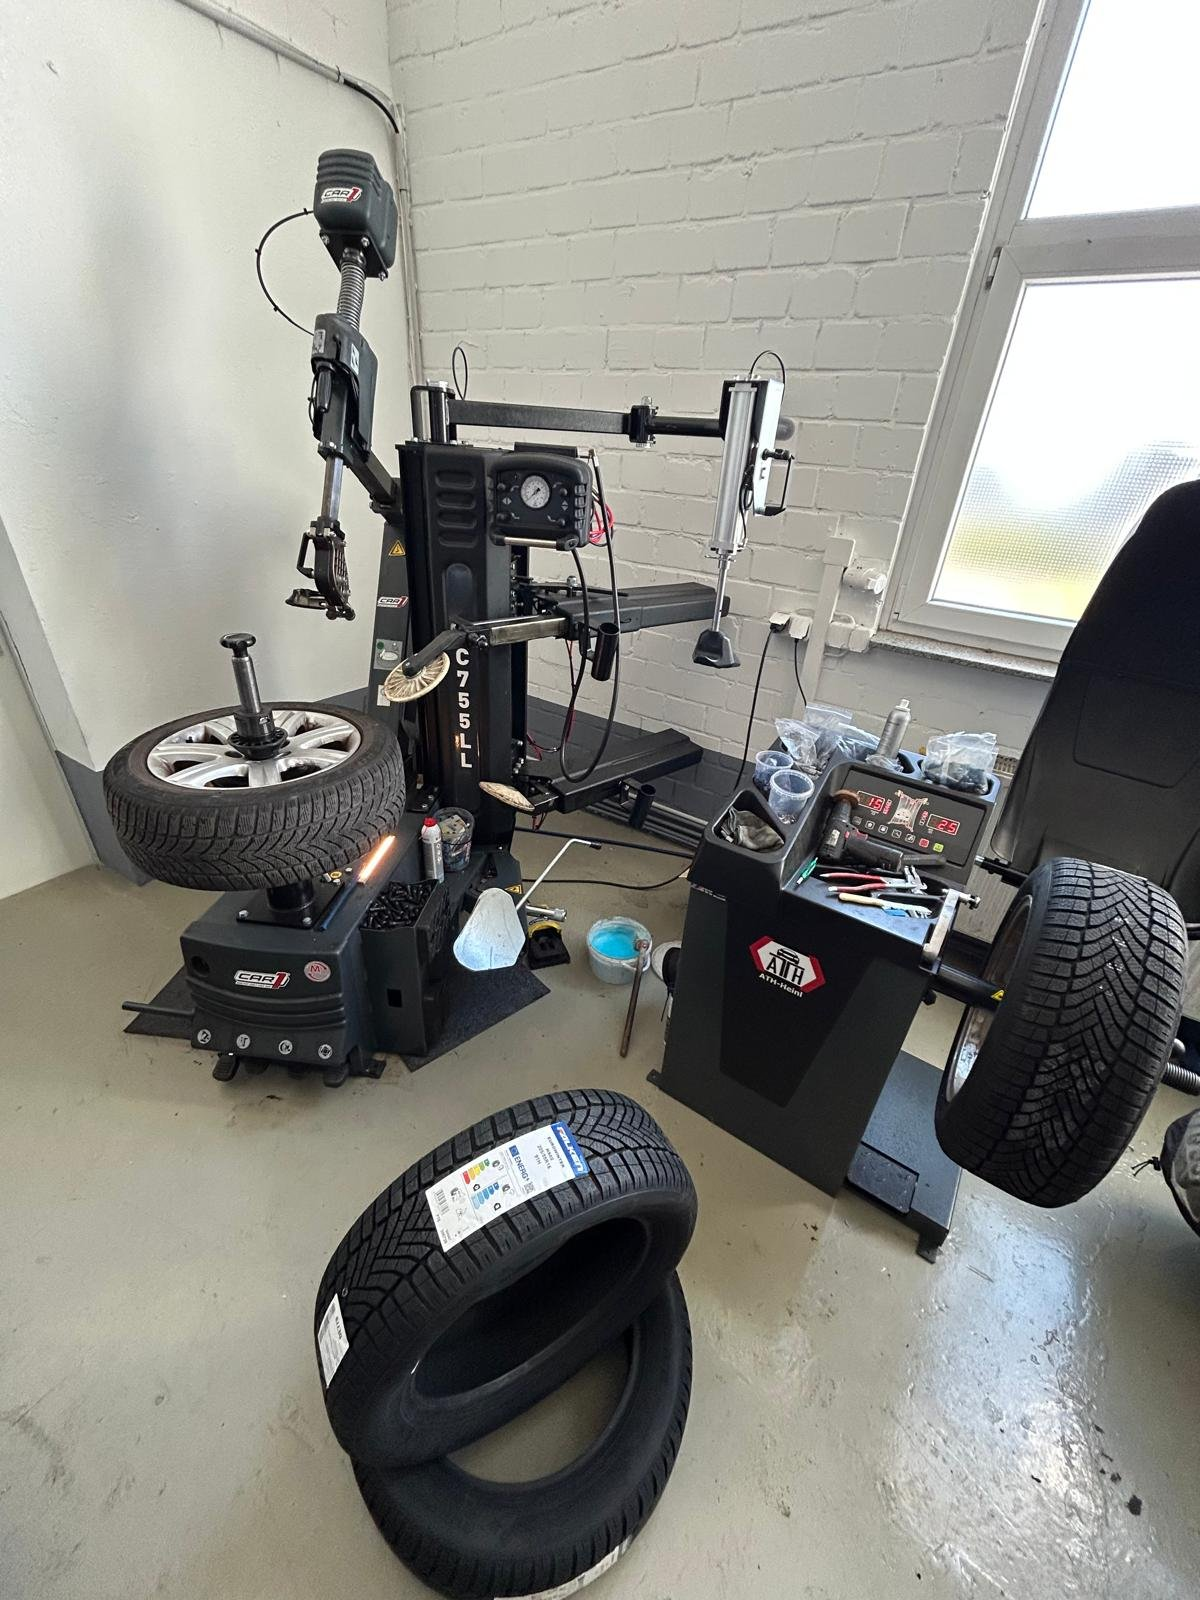
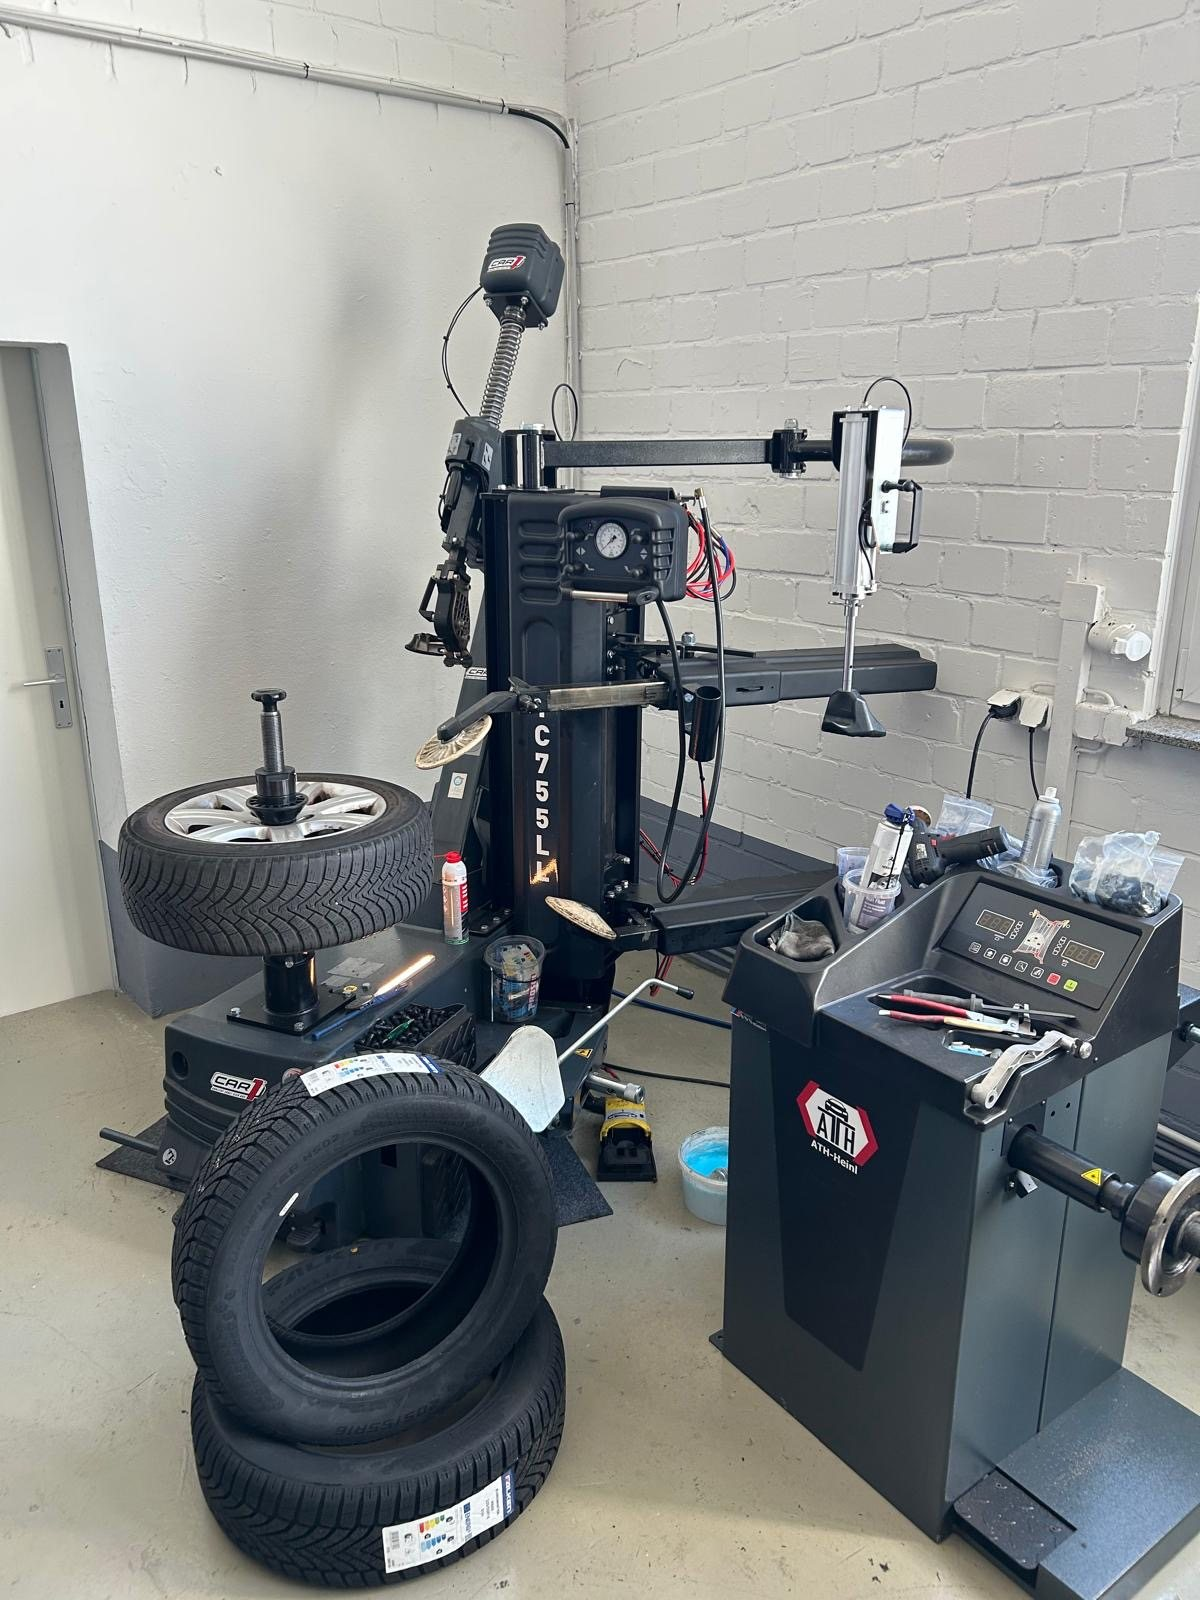
Website: neue Hallenfotos, keine doppelten Bilder mehr
„Aus der Halle“ zeigt acht Fotos ohne das Startbild, Karriere bekommt ein
eigenes Hallenfoto statt des Panamera, die Reifenkachel die neuere Aufnahme.
Kennzeichen auf den neuen Fotos unkenntlich gemacht.

Claude-Session: https://claude.ai/code/session_01UD8GnbSYkhsaeJimwyEpBY

diff --git a/src/app/(site)/page.tsx b/src/app/(site)/page.tsx
@@ -1,7 +1,12 @@
 import Image from "next/image";
 import Link from "next/link";
+import amgBuehne from "@/assets/amg-buehne.jpg";
+import amgMotor from "@/assets/amg-motor.jpg";
+import m3Heck from "@/assets/bmw-m3-heck.jpg";
+import m4Buehne from "@/assets/bmw-m4-buehne.jpg";
 import halle from "@/assets/halle-lancia.jpg";
 import handschuhe from "@/assets/handschuhe.jpg";
+import jaguar from "@/assets/jaguar-motor.jpg";
 import lanciaHeck from "@/assets/lancia-heck.jpg";
 import panamera from "@/assets/panamera-reifen.jpg";
 import porsche from "@/assets/porsche-felge.jpg";
@@ -141,15 +146,23 @@ export default async function Startseite() {
         <div className="rand mb-8">
           <h2 id="halle-titel" className="schmal text-3xl sm:text-4xl md:text-7xl">Aus der Halle</h2>
         </div>
-        <div className="rand flex snap-x snap-mandatory gap-4 quer-scrollen pb-2 [scrollbar-width:none] md:grid md:grid-cols-2 md:overflow-visible lg:grid-cols-4">
+        {/*
+          Jedes Foto nur einmal auf der Website: das Hallenfoto vom Start und die Bilder der Leistungskacheln stehen hier
+          nicht noch einmal. Bis zum Desktop seitlich wischbar, bei acht Bildern wäre ein Zweierraster sehr lang.
+        */}
+        <div className="rand flex snap-x snap-mandatory gap-4 quer-scrollen pb-2 [scrollbar-width:none] lg:grid lg:grid-cols-4 lg:overflow-visible">
           {[
             { src: porsche, alt: "Porsche 911 mit schwarzen Felgen und gelben Bremssätteln in der Halle" },
+            { src: m4Buehne, alt: "BMW M4 von hinten auf der Hebebühne, Blick auf Auspuffanlage und Unterboden" },
             { src: panamera, alt: "Weißer Porsche Panamera auf der Hebebühne, davor ein Stapel Reifen und die Reifenmontiermaschine" },
+            { src: amgBuehne, alt: "Mercedes-AMG GLC auf der Hebebühne, davor ein Opel mit offener Motorhaube" },
             { src: lanciaHeck, alt: "Roter Lancia Delta von hinten, daneben ein schwarzer BMW" },
-            { src: halle, alt: "Werkstatthalle mit geöffneter Motorhaube" },
+            { src: jaguar, alt: "Jaguar XF mit offener Motorhaube und Arbeitslampe" },
+            { src: m3Heck, alt: "Schwarzes BMW M3 Cabrio von hinten in der Halle" },
+            { src: amgMotor, alt: "V8-Motor eines Mercedes-AMG unter der geöffneten Motorhaube" },
           ].map((b, i) => (
-            // Jedes zweite Bild versetzt, damit die Reihe nicht wie ein Raster wirkt (erst ab vier Spalten, darunter stünden die Lücken mitten im Zweierraster)
-            <div key={b.alt} className={`group relative aspect-[3/4] w-[78vw] shrink-0 snap-start overflow-hidden rounded-lg sm:w-[45vw] md:w-auto ${i % 2 === 1 ? "lg:mt-12" : ""}`}>
+            // Jedes zweite Bild versetzt, damit die Reihen nicht wie ein Raster wirken (nur im Viererraster, beim Wischen nicht)
+            <div key={b.alt} className={`group relative aspect-[3/4] w-[78vw] shrink-0 snap-start overflow-hidden rounded-lg sm:w-[45vw] lg:w-auto ${i % 2 === 1 ? "lg:mt-12" : ""}`}>
               <Image src={b.src} alt={b.alt} fill sizes="(min-width: 1024px) 23vw, (min-width: 768px) 45vw, 78vw" className="object-cover transition-transform duration-700 group-hover:scale-[1.04]" />
             </div>
           ))}

diff --git a/src/app/(site)/karriere/page.tsx b/src/app/(site)/karriere/page.tsx
@@ -2,7 +2,7 @@ import type { Metadata } from "next";
 import Image from "next/image";
 import Link from "next/link";
 import { notFound } from "next/navigation";
-import panamera from "@/assets/panamera-reifen.jpg";
+import halleKran from "@/assets/halle-kran.jpg";
 import { Pfeil } from "@/components/icons";
 import { BewerbungsFormular } from "@/components/site/bewerbung";
 import { einstellungen } from "@/lib/einstellungen";
@@ -17,11 +17,11 @@ export default async function KarriereSeite() {
   return (
     <>
       {/*
-        Kopf mit Foto aus der Halle wie auf der Startseite: Wer sich bewirbt, will zuerst sehen, wo er arbeiten würde.
+        Kopf mit Foto aus der Halle (ein anderes als auf der Startseite): Wer sich bewirbt, will zuerst sehen, wo er arbeiten würde.
         Unter den durchscheinenden Seitenkopf gezogen (-mt-16), die Schrift beginnt erst darunter.
       */}
       <section className="relative isolate -mt-16 flex min-h-[26rem] flex-col justify-end overflow-hidden bg-graphit text-hell md:min-h-[34rem]">
-        <Image src={panamera} alt="" fill priority sizes="100vw" className="-z-20 object-cover object-[center_60%]" />
+        <Image src={halleKran} alt="" fill priority sizes="100vw" className="-z-20 object-cover object-[center_70%]" />
         <div className="absolute inset-0 -z-10 bg-gradient-to-t from-black/85 via-black/55 to-black/40" />
         <div className="rand einblenden pb-12 pt-28 md:pb-16">
           <p className="mb-3 text-sm uppercase tracking-[0.16em] text-hell/60">Karriere</p>

diff --git a/FEHLERBUCH.md b/FEHLERBUCH.md
@@ -18,6 +18,23 @@ Betrieb. Hier stehen Fehler im Code und in der Gestaltung.
 
 ## Einträge
 
+### 2026-11-27 · Website zeigt dieselben Fotos mehrfach
+
+- **Stand:** behoben
+- **Wo:** `src/app/(site)/page.tsx` („Aus der Halle“), `src/app/(site)/karriere/page.tsx`
+- **Was man sah:** (vom Nutzer gemeldet) Das Hallenfoto vom Start stand in „Aus der Halle“ noch einmal, der
+  Panamera aus „Aus der Halle“ war zugleich Kopfbild der Karriereseite.
+- **Ursache:** Bei nur acht Fotos wurde dasselbe Asset an mehreren Stellen eingebunden, ohne dass jemand die
+  Seiten nebeneinander gesehen hat.
+- **Behebung:** neue Hallenfotos ergänzt (Kennzeichen unkenntlich gemacht), „Aus der Halle“ ohne das Startfoto und
+  mit acht Bildern, Karriere mit eigenem Hallenfoto (`halle-kran.jpg`), die Reifenkachel mit der neueren Aufnahme
+  derselben Maschine.
+- **Muster:** Ein Bild aus `src/assets/` wird in mehr als einer Datei unter `(site)` oder `components/site`
+  importiert. Vor dem Einbinden `grep -rn "assets/<name>" src` laufen lassen. Ausnahme mit Absicht: die Bilder aus
+  `BEREICHE` stehen auf der Startseite und als Banner auf `/leistungen`.
+- **Weitere Stellen:** alle Importe aus `@/assets` geprüft; sonst nur Logo-Dateien mehrfach (gewollt). Neue Fotos
+  mit Kunden-Kennzeichen vorher unkenntlich machen.
+
 ### 2026-11-26 · Automatische Mails ohne die Signatur aus dem Postfach
 
 - **Stand:** behoben
